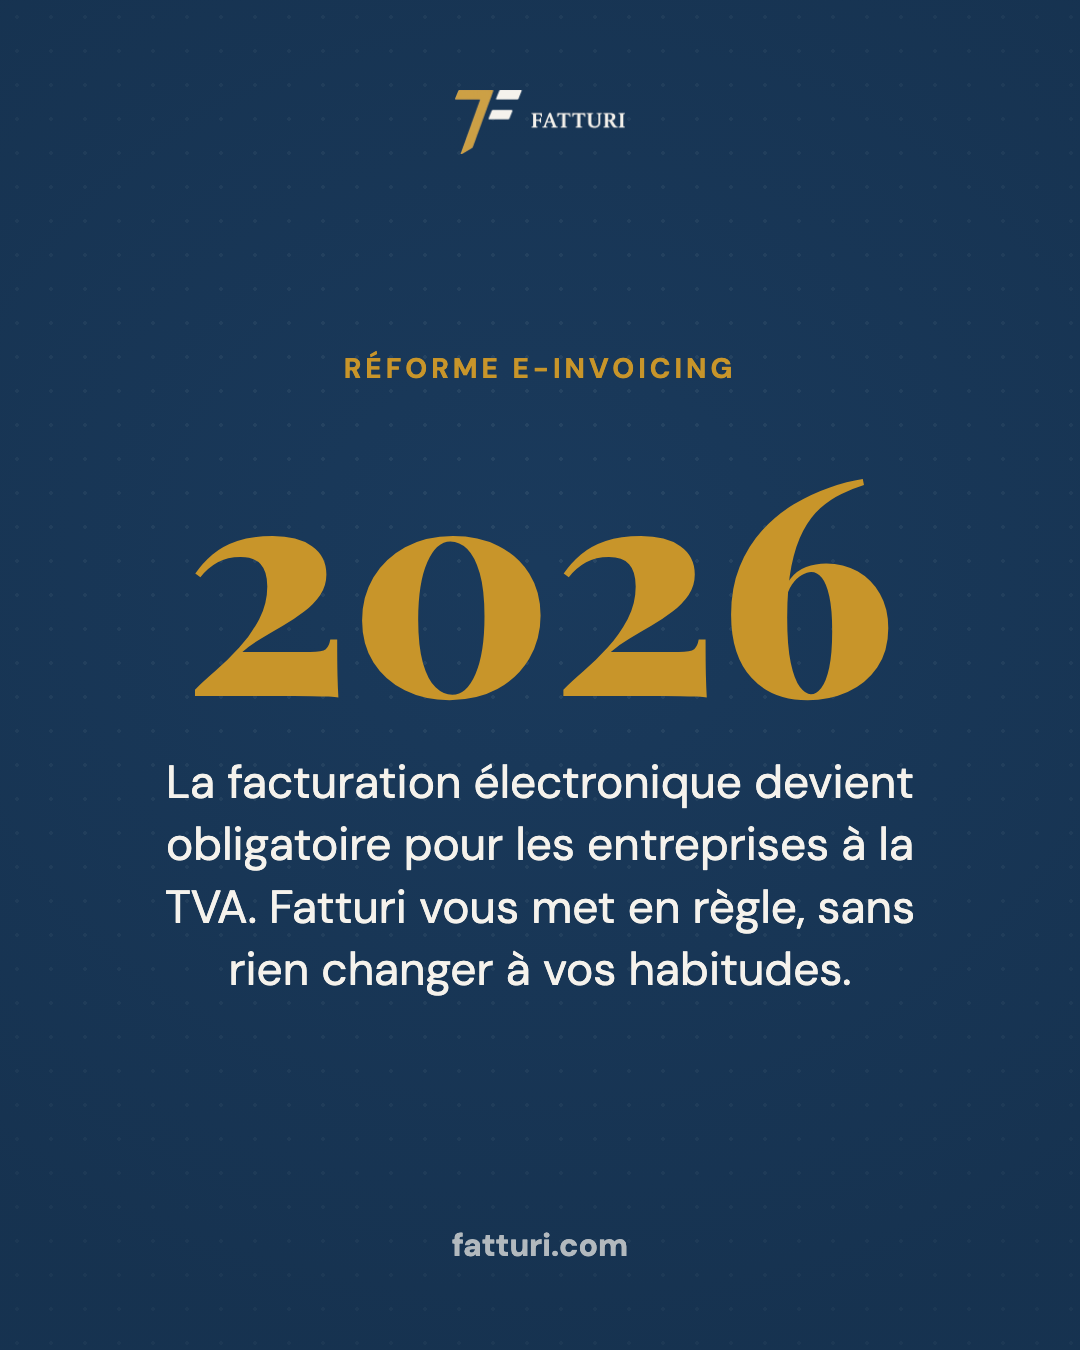
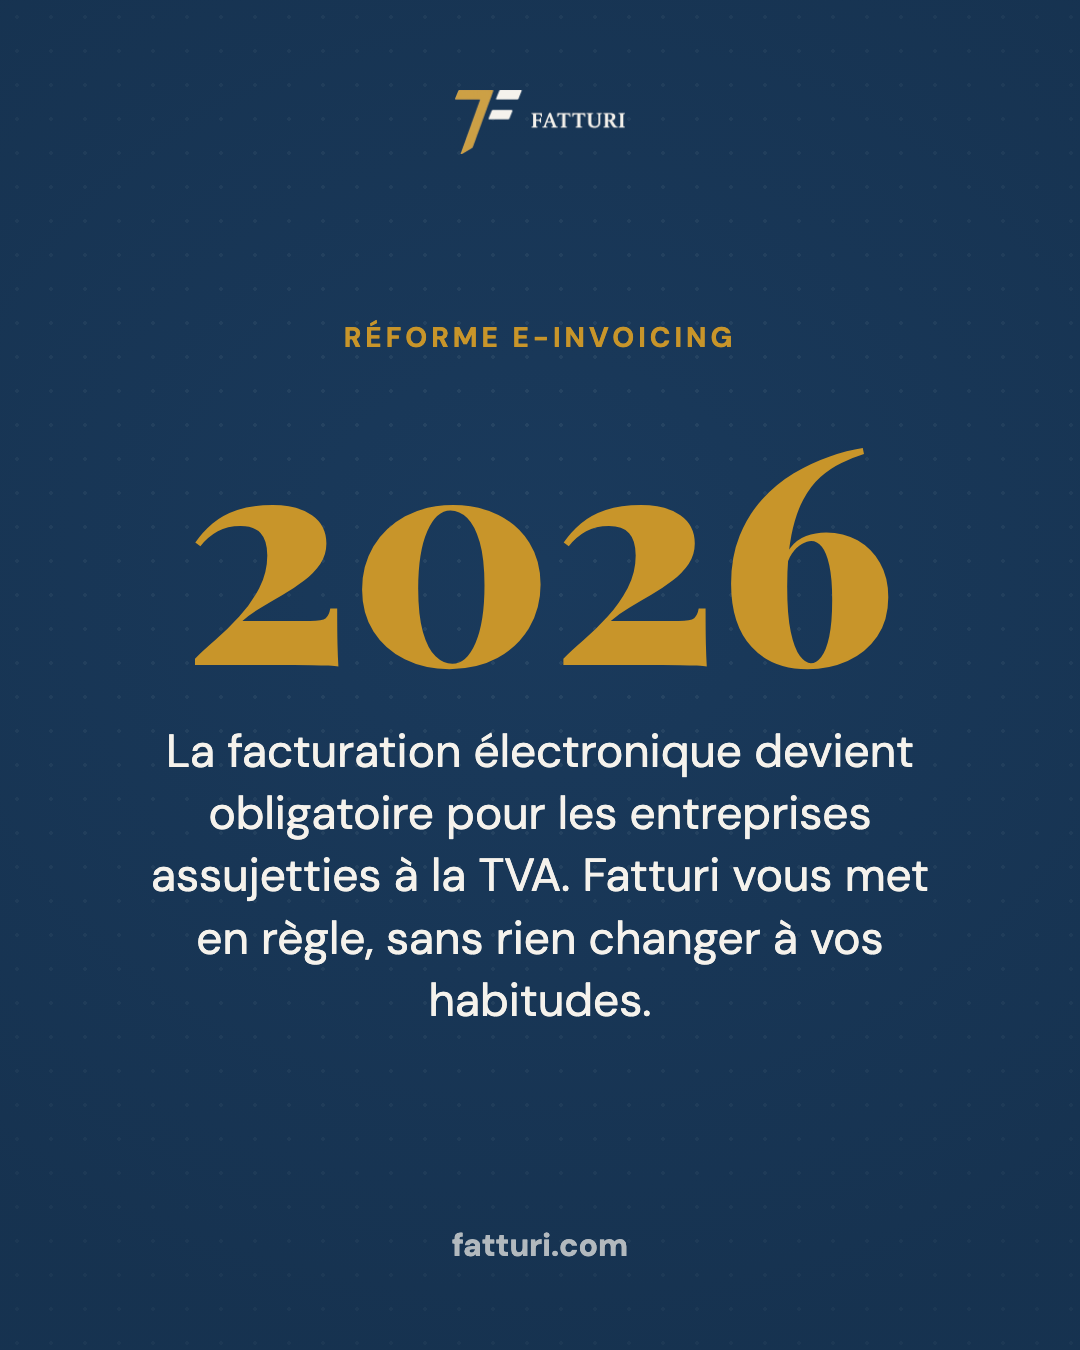
Fix reform card copy: "entreprises assujetties à la TVA"

Changed region(s): [[0.1528, 0.3111, 0.8556, 0.7778], [0.3056, 0.2178, 0.6722, 0.28]]

diff --git a/remotion/cards/Card.tsx b/remotion/cards/Card.tsx
@@ -16,7 +16,7 @@ export const CARDS: Record<string, CardData> = {
     kind: "stat",
     kicker: "Réforme e-invoicing",
     big: "2026",
-    sub: "La facturation électronique devient obligatoire pour les entreprises à la TVA. Fatturi vous met en règle, sans rien changer à vos habitudes.",
+    sub: "La facturation électronique devient obligatoire pour les entreprises assujetties à la TVA. Fatturi vous met en règle, sans rien changer à vos habitudes.",
   },
   "morning-invoiced": {
     kind: "quote",